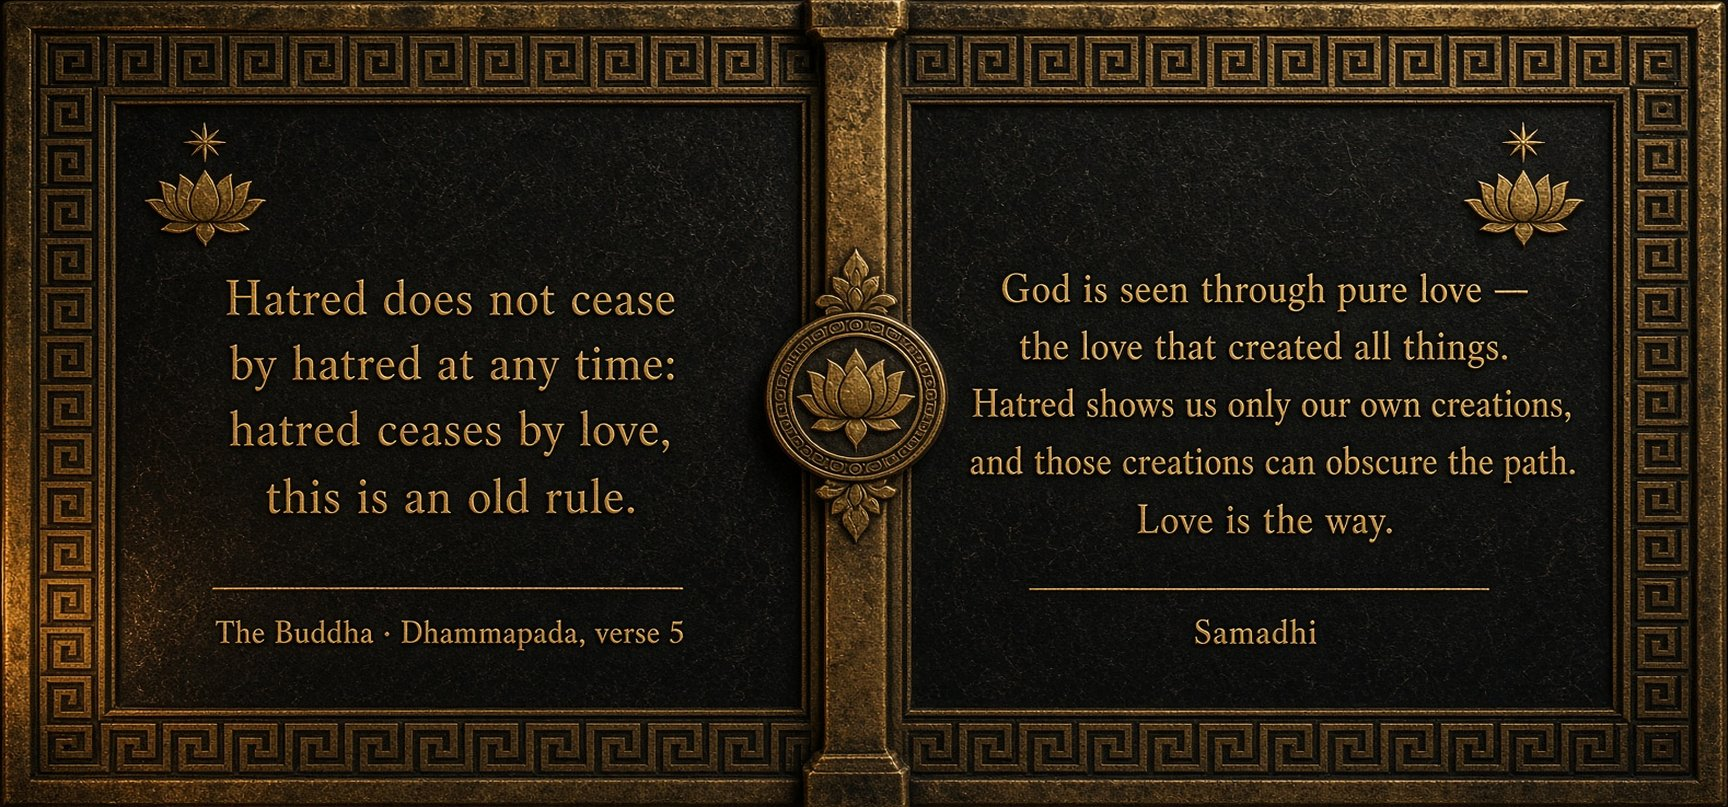
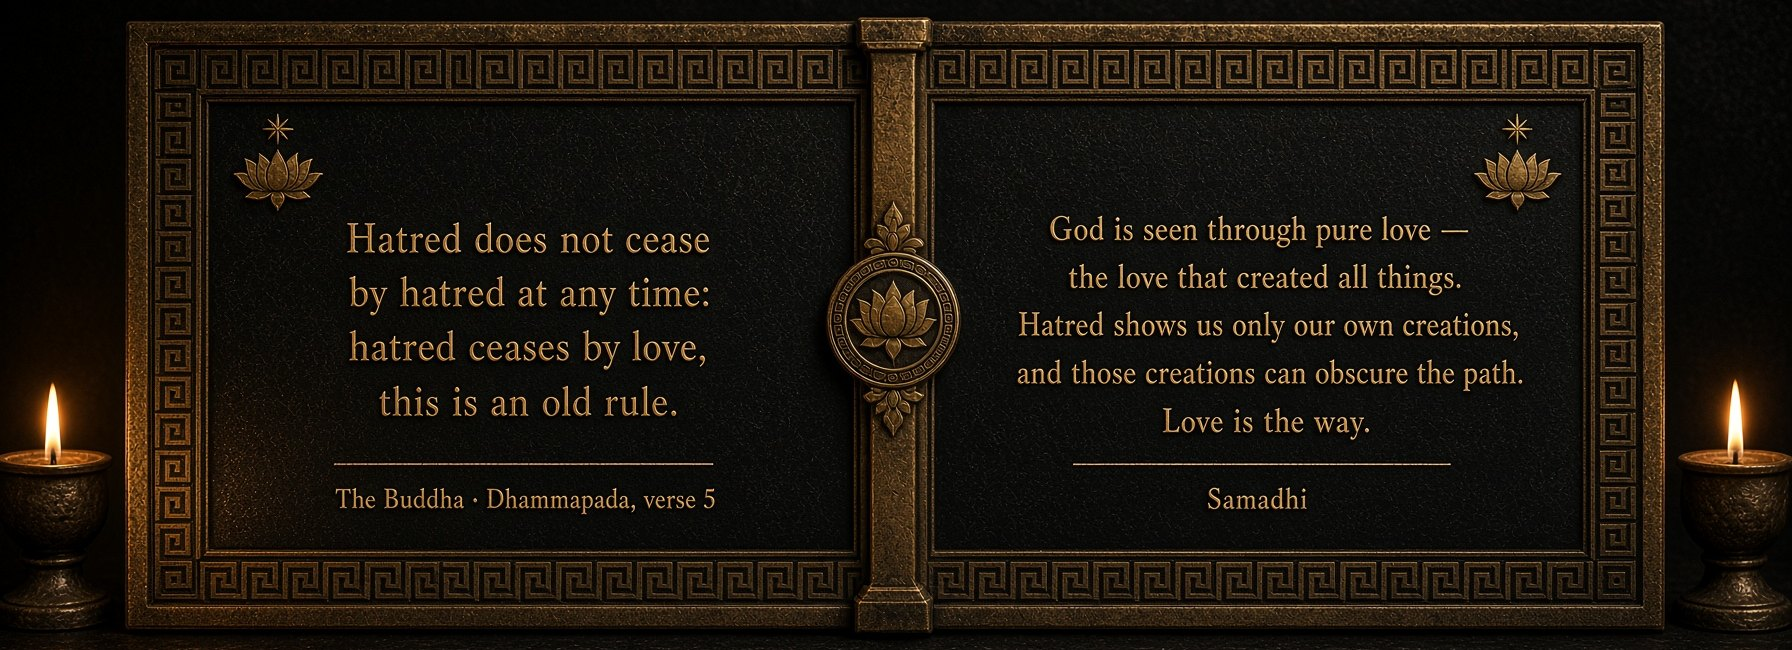
Home: Samadhi's longer matching tableau with candles; seed-of-life circles turning slowly above the candles
Claude-Session: https://claude.ai/code/session_01AAjWxrSvQ3BP8S38Wn8LdA

diff --git a/lib/pages.js b/lib/pages.js
@@ -279,7 +279,7 @@ ${GLYPH_DEFS}<div class="grid family-grid" data-geo-live>${paths.split("</articl
 <p>Prefer to learn in order? Follow the whole Library as one story, step by step, like a school year: the soul, the human story, the messengers, wisdom, the mystics, the sacred sciences, practice, daily life, and the soul's journey home.</p>
 <a class="btn btn-gold" href="/teachings/the-path-of-study">Begin the Path of Study ${arrow}</a> <a class="btn" href="/teachings/questions-people-ask">Questions People Ask ${arrow}</a></div>${pathWheel()}</div></div>${paths.split("</article>").slice(6).join("</article>")}</div>
 </div></section>
-<section class="quote home-sec"><div class="wrap"><figure class="quote-plaque quote-tableau-one"><img src="/images/love-tableau.jpg" width="1728" height="807" alt="" aria-hidden="true" loading="lazy" decoding="async"><figcaption class="sr-only"><blockquote>“Hatred does not cease by hatred at any time: hatred ceases by love, this is an old rule.”</blockquote><cite>The Buddha · Dhammapada, verse 5</cite><blockquote>God is seen through pure love — the love that created all things. Hatred shows us only our own creations, and those creations can obscure the path. Love is the way.</blockquote><cite>Samadhi</cite></figcaption></figure></div></section>
+<section class="quote home-sec"><div class="wrap"><figure class="quote-plaque quote-tableau-one" data-geo-live><img src="/images/love-tableau.jpg" width="1792" height="650" alt="" aria-hidden="true" loading="lazy" decoding="async"><span class="qt-orb qt-orb-l" aria-hidden="true">${glyph("seed")}</span><span class="qt-orb qt-orb-r" aria-hidden="true">${glyph("seed", " gs-rev")}</span><figcaption class="sr-only"><blockquote>“Hatred does not cease by hatred at any time: hatred ceases by love, this is an old rule.”</blockquote><cite>The Buddha · Dhammapada, verse 5</cite><blockquote>God is seen through pure love — the love that created all things. Hatred shows us only our own creations, and those creations can obscure the path. Love is the way.</blockquote><cite>Samadhi</cite></figcaption></figure></div></section>
 <section class="home-sec"><div class="wrap"><p class="eyebrow" style="color:var(--rose)">New teachings</p><h2 class="section-title">Read, reflect, remember</h2><div class="grid grid-wide">${stories}</div></div></section>
 <section class="band home-band"><canvas data-sky="studio" aria-hidden="true"></canvas><div class="shade"></div><div class="wrap">
 <p class="eyebrow">Music &amp; Versual Studio</p><h2 class="section-title" style="max-width:660px">A unique creative platform where music, positive vibes and frequency meet</h2>

diff --git a/public/site.css b/public/site.css
@@ -1373,3 +1373,11 @@ section.quote.home-sec { padding: 14px 0 18px; }
 .quote-tableau-one { max-width: none; margin: 0; }
 .quote-tableau-one img { border-radius: 4px; }
 @media (max-width: 700px) { .quote-tableau-one { margin: 0 -10px; } }
+/* Small gold circles of the seed of life turning slowly above the two candles of the tableau. */
+.quote-tableau-one { position: relative; }
+.qt-orb { position: absolute; top: 47%; width: 4.4%; aspect-ratio: 1; transform: translate(-50%, -50%); color: #e6bf6a; pointer-events: none;
+  filter: drop-shadow(0 0 5px rgba(255, 200, 110, .55)); opacity: .9; }
+.qt-orb-l { left: 3.05%; } .qt-orb-r { left: 96.85%; }
+.qt-orb .gs { width: 100%; height: 100%; display: block; }
+.qt-orb .gs-turn { animation-duration: 40s; }
+.qt-orb .gs-turn.gs-rev { animation-duration: 40s; }
